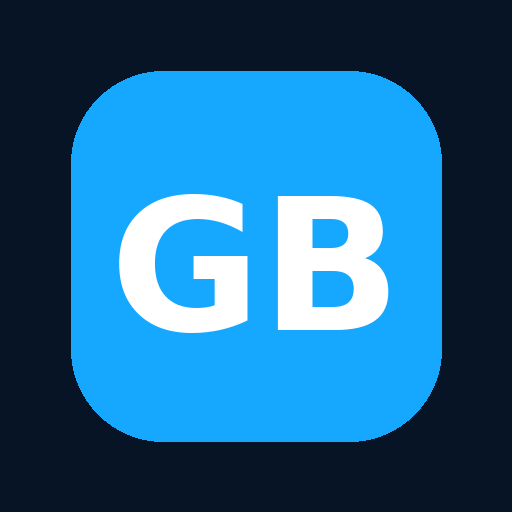
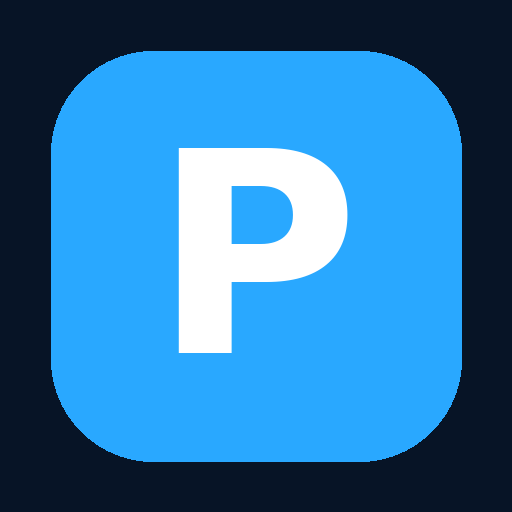
Add files via upload

Changed region(s): [[0.0938, 0.0938, 0.9062, 0.9062], [0.2188, 0.2812, 0.7812, 0.6875]]

diff --git a/script.js b/script.js
@@ -1,4 +1,4 @@
-// Gadget Bazar BD — customer site / Supabase
+// Paboo — customer site / Supabase
 const SUPABASE_URL="https://vwwysrdqexjtlmpmevub.supabase.co";
 const SUPABASE_KEY="sb_publishable_vYHW5zcCIPipjPS-tuxnRA_dS125qax";
 const sb=window.supabase.createClient(SUPABASE_URL,SUPABASE_KEY);
@@ -142,7 +142,7 @@ function renderDealProductCards(){
  const dealProducts=products.filter(p=>p.is_deal||Number(p.discount)>=70);
  return dealProducts.map(p=>{
   const id=jsArg(p.id),sold=Number(p.stock)<=0,disc=Number(p.discount)>0;
-  return `<article class="offer-card deal-product-card">${p.image?`<div class="offer-cover"><img src="${esc(p.image)}" alt="${esc(p.name)}" loading="lazy" onerror="this.style.display='none'"></div>`:''}<span class="offer-type">${disc?`${Math.round(Number(p.discount))}% OFF`:'Featured Deal'}</span><h3>${esc(p.name)}</h3><p>${esc(p.description||'Special gadget deal from Gadget Bazar BD.')}</p><strong class="offer-combo-price">${money(finalPrice(p))} ${disc?`<del style="font-size:12px;opacity:.7">${money(p.price)}</del>`:''}</strong><small>${sold?'Out of stock':`In stock: ${Math.max(0,Number(p.stock)||0)}`}</small><div class="offer-card-actions"><button type="button" class="view-btn" onclick="viewProductDetails(${id})">View Details</button><button type="button" class="add-btn" ${sold?'disabled':''} onclick="window.addToCart(${id})">${sold?'Out of Stock':'Add to Cart'}</button><button type="button" class="buy-btn" ${sold?'disabled':''} onclick="window.buyNow(${id})">${sold?'Out of Stock':'Buy Now'}</button><button type="button" class="view-btn" onclick="toggleWishlist(${id})">${wishlistIds.has(String(p.id))?'♥ Wishlist':'♡ Wishlist'}</button><button type="button" class="view-btn" onclick="toggleCompare(${id})">${compareIds.has(String(p.id))?'✓ Compare':'⇄ Compare'}</button></div></article>`;
+  return `<article class="offer-card deal-product-card">${p.image?`<div class="offer-cover"><img src="${esc(p.image)}" alt="${esc(p.name)}" loading="lazy" onerror="this.style.display='none'"></div>`:''}<span class="offer-type">${disc?`${Math.round(Number(p.discount))}% OFF`:'Featured Deal'}</span><h3>${esc(p.name)}</h3><p>${esc(p.description||'Special gadget deal from Paboo.')}</p><strong class="offer-combo-price">${money(finalPrice(p))} ${disc?`<del style="font-size:12px;opacity:.7">${money(p.price)}</del>`:''}</strong><small>${sold?'Out of stock':`In stock: ${Math.max(0,Number(p.stock)||0)}`}</small><div class="offer-card-actions"><button type="button" class="view-btn" onclick="viewProductDetails(${id})">View Details</button><button type="button" class="add-btn" ${sold?'disabled':''} onclick="window.addToCart(${id})">${sold?'Out of Stock':'Add to Cart'}</button><button type="button" class="buy-btn" ${sold?'disabled':''} onclick="window.buyNow(${id})">${sold?'Out of Stock':'Buy Now'}</button><button type="button" class="view-btn" onclick="toggleWishlist(${id})">${wishlistIds.has(String(p.id))?'♥ Wishlist':'♡ Wishlist'}</button><button type="button" class="view-btn" onclick="toggleCompare(${id})">${compareIds.has(String(p.id))?'✓ Compare':'⇄ Compare'}</button></div></article>`;
  }).join('');
 }
 function renderDealProducts(){
@@ -178,7 +178,7 @@ function renderOffers(){
   const unitPrice=offerUnitPrice(o);
   const offerId=esc(o.id);
   const priceLabel=Number(o.combo_price)>0?(isCombo?'Combo Deal':'Special Deal'):pct>0?`${pct}% OFF`:'Special Deal';
-  return `<article class="offer-card">${img?`<div class="offer-cover"><img src="${esc(img)}" alt="${esc(o.title||'Offer')}" loading="lazy"></div>`:''}<span class="offer-type">${type}</span><h3>${esc(o.title||'Special offer')}</h3><p>${esc(o.description||'Limited-time offer from Gadget Bazar BD.')}</p>${matched.length?`<div class="offer-products">${matched.map(p=>`<div class="offer-mini-product">${p.image?`<img src="${esc(p.image)}" alt="" loading="lazy">`:''}<span>${esc(p.name)}</span></div>`).join('')}</div>`:''}<div class="offer-value">${esc(priceLabel)}</div>${unitPrice>0?`<strong class="offer-combo-price">${money(unitPrice)}${isCombo?' per combo':' total'}</strong>`:''}${o.ends_at?`<small>Ends: ${new Date(o.ends_at).toLocaleString('en-BD',{dateStyle:'medium',timeStyle:'short'})}</small>`:''}${matched.length?`<div class="offer-card-actions"><button type="button" class="add-btn" ${sold?'disabled':''} onclick="addOfferToCart('${offerId}')">${sold?'Out of Stock':isCombo?'Add Combo to Cart':'Add to Cart'}</button><button type="button" class="buy-btn" ${sold?'disabled':''} onclick="buyOfferNow('${offerId}')">${sold?'Out of Stock':isCombo?'Buy Combo Now':'Buy Now'}</button></div>`:`<small>Products for this offer are not available right now.</small>`}</article>`;
+  return `<article class="offer-card">${img?`<div class="offer-cover"><img src="${esc(img)}" alt="${esc(o.title||'Offer')}" loading="lazy"></div>`:''}<span class="offer-type">${type}</span><h3>${esc(o.title||'Special offer')}</h3><p>${esc(o.description||'Limited-time offer from Paboo.')}</p>${matched.length?`<div class="offer-products">${matched.map(p=>`<div class="offer-mini-product">${p.image?`<img src="${esc(p.image)}" alt="" loading="lazy">`:''}<span>${esc(p.name)}</span></div>`).join('')}</div>`:''}<div class="offer-value">${esc(priceLabel)}</div>${unitPrice>0?`<strong class="offer-combo-price">${money(unitPrice)}${isCombo?' per combo':' total'}</strong>`:''}${o.ends_at?`<small>Ends: ${new Date(o.ends_at).toLocaleString('en-BD',{dateStyle:'medium',timeStyle:'short'})}</small>`:''}${matched.length?`<div class="offer-card-actions"><button type="button" class="add-btn" ${sold?'disabled':''} onclick="addOfferToCart('${offerId}')">${sold?'Out of Stock':isCombo?'Add Combo to Cart':'Add to Cart'}</button><button type="button" class="buy-btn" ${sold?'disabled':''} onclick="buyOfferNow('${offerId}')">${sold?'Out of Stock':isCombo?'Buy Combo Now':'Buy Now'}</button></div>`:`<small>Products for this offer are not available right now.</small>`}</article>`;
  }).join('');
  const placeholder=`<div class="offer-placeholder">${activeDealType?`No active ${esc(activeDealType)} right now.`:'No offers right now. Please check back soon.'}</div>`;
  if(offerGrid)offerGrid.innerHTML=offerCards;
@@ -383,7 +383,7 @@ function productImages(p){const arr=Array.isArray(p?.images)?p.images:[];return 
 function setProductGalleryImage(containerId,button,url){const box=$(containerId);if(!box)return;const img=box.querySelector('img');if(img)img.src=url;box.querySelectorAll('.product-gallery-thumb').forEach(b=>b.classList.remove('active'));button?.classList.add('active');}
 function openProductPage(id){const url=new URL(window.location.href);url.searchParams.set('product',String(id));url.hash='';window.location.href=url.toString();}
 function returnToShop(){const url=new URL(window.location.href);url.searchParams.delete('product');url.hash='products';window.location.href=url.toString();}
-function handleProductPageRoute(loadFailed=false){const id=new URLSearchParams(window.location.search).get('product');const page=$('fullProductPage');if(!page)return;if(!id){page.classList.add('hidden');document.body.classList.remove('full-product-page-open');return;}page.classList.remove('hidden');document.body.classList.add('full-product-page-open');if(loadFailed){page.innerHTML='<div class="full-product-message"><h2>Products could not be loaded</h2><p>Please check your connection and try again.</p><button class="view-btn" onclick="returnToShop()">Back to Shop</button></div>';return;}const p=getProduct(id);if(!p){page.innerHTML='<div class="full-product-message"><h2>Product not found</h2><p>This product may be unavailable or removed.</p><button class="view-btn" onclick="returnToShop()">Back to Shop</button></div>';return;}const specs=productSpecEntries(p),images=productImages(p),sold=Number(p.stock)<=0,discount=Number(p.discount)>0;const related=products.filter(x=>String(x.id)!==String(p.id)&&x.cat===p.cat).slice(0,4);page.innerHTML=`<div class="full-product-topbar"><button type="button" class="full-product-back" onclick="returnToShop()">← Back to Shop</button><span>GADGET BAZAR BD <b>• PRODUCT DETAILS</b></span><button type="button" class="full-product-cart" onclick="returnToShop();setTimeout(()=>document.getElementById('cartDrawer')?.classList.add('open'),350)">🛒 Cart</button></div><div class="full-product-container"><div class="full-product-hero"><div><div class="full-product-gallery"><div class="full-product-main-image" id="fullProductMainImage">${images.length?`<img src="${esc(images[0])}" alt="${esc(p.name)}" onerror="this.style.display='none'">`:`<span>${imgPlaceholder()}</span>`}</div>${images.length>1?`<div class="product-gallery-thumbs">${images.map((src,i)=>`<button type="button" class="product-gallery-thumb ${i===0?'active':''}" onclick="setProductGalleryImage('fullProductMainImage',this,this.dataset.src)" data-src="${esc(src)}" aria-label="View image ${i+1}"><img src="${esc(src)}" alt="" loading="lazy"></button>`).join('')}</div>`:''}</div></div><div class="full-product-info"><span class="product-details-kicker">${esc(p.cat||'Gadget')}</span><h1>${esc(p.name)}</h1><div class="product-details-price">${money(finalPrice(p,gbVar(p.id)))} ${discount?`<del>${money(p.price)}</del><span class="discount-badge">${Math.round(Number(p.discount))}% OFF</span>`:''}</div>${saleBox(p)}<p class="product-details-stock ${sold?'sold':''}">${sold?'Currently out of stock':`In stock: ${Math.max(0,Number(p.stock)||0)}`}</p>${p.description?`<p class="product-details-description">${esc(p.description)}</p>`:'<p class="product-details-description">Product description has not been added yet.</p>'}${variantChips(p)}<div class="full-product-actions"><button type="button" class="add-btn" ${sold?'disabled':''} onclick="window.addToCart(${jsArg(p.id)})">Add to Cart</button><button type="button" class="buy-btn" ${sold?'disabled':''} onclick="window.buyNow(${jsArg(p.id)})">Buy Now</button><button type="button" class="view-btn" onclick="window.viewProductDetails(${jsArg(p.id)})">Quick View Popup</button><button type="button" class="full-product-save" onclick="window.toggleWishlist(${jsArg(p.id)})">♡ Save to Wishlist</button></div><div class="full-product-highlights"><span>⚡ Secure checkout options</span><span>📦 Stock: ${Math.max(0,Number(p.stock)||0)}</span><span>↩ Return policy: see store policy</span></div></div></div>${specs.length?`<section class="full-product-spec-section"><h2>Specifications & Features</h2><dl>${specs.map(([k,v])=>`<div><dt>${esc(k)}</dt><dd>${esc(v)}</dd></div>`).join('')}</dl></section>`:`<section class="full-product-spec-section"><h2>Specifications & Features</h2><p>Specifications have not been provided for this product yet. Ask the store to confirm important details before ordering.</p></section>`}${related.length?`<section class="full-product-related"><h2>You may also like</h2><div class="full-product-related-grid">${related.map(x=>`<article class="full-related-card"><div class="full-related-image">${x.image?`<img src="${esc(x.image)}" alt="${esc(x.name)}" loading="lazy">`:esc(x.emoji||'📦')}</div><h3>${esc(x.name)}</h3><strong>${money(finalPrice(x))}</strong><button type="button" class="view-btn" onclick="window.openProductPage(${jsArg(x.id)})">View Details</button></article>`).join('')}</div></section>`:''}<div class="full-product-footer">Gadget Bazar BD · Prices and stock may change. Confirm product details before ordering.</div></div>`;}
+function handleProductPageRoute(loadFailed=false){const id=new URLSearchParams(window.location.search).get('product');const page=$('fullProductPage');if(!page)return;if(!id){page.classList.add('hidden');document.body.classList.remove('full-product-page-open');return;}page.classList.remove('hidden');document.body.classList.add('full-product-page-open');if(loadFailed){page.innerHTML='<div class="full-product-message"><h2>Products could not be loaded</h2><p>Please check your connection and try again.</p><button class="view-btn" onclick="returnToShop()">Back to Shop</button></div>';return;}const p=getProduct(id);if(!p){page.innerHTML='<div class="full-product-message"><h2>Product not found</h2><p>This product may be unavailable or removed.</p><button class="view-btn" onclick="returnToShop()">Back to Shop</button></div>';return;}const specs=productSpecEntries(p),images=productImages(p),sold=Number(p.stock)<=0,discount=Number(p.discount)>0;const related=products.filter(x=>String(x.id)!==String(p.id)&&x.cat===p.cat).slice(0,4);page.innerHTML=`<div class="full-product-topbar"><button type="button" class="full-product-back" onclick="returnToShop()">← Back to Shop</button><span>PABOO <b>• PRODUCT DETAILS</b></span><button type="button" class="full-product-cart" onclick="returnToShop();setTimeout(()=>document.getElementById('cartDrawer')?.classList.add('open'),350)">🛒 Cart</button></div><div class="full-product-container"><div class="full-product-hero"><div><div class="full-product-gallery"><div class="full-product-main-image" id="fullProductMainImage">${images.length?`<img src="${esc(images[0])}" alt="${esc(p.name)}" onerror="this.style.display='none'">`:`<span>${imgPlaceholder()}</span>`}</div>${images.length>1?`<div class="product-gallery-thumbs">${images.map((src,i)=>`<button type="button" class="product-gallery-thumb ${i===0?'active':''}" onclick="setProductGalleryImage('fullProductMainImage',this,this.dataset.src)" data-src="${esc(src)}" aria-label="View image ${i+1}"><img src="${esc(src)}" alt="" loading="lazy"></button>`).join('')}</div>`:''}</div></div><div class="full-product-info"><span class="product-details-kicker">${esc(p.cat||'Gadget')}</span><h1>${esc(p.name)}</h1><div class="product-details-price">${money(finalPrice(p,gbVar(p.id)))} ${discount?`<del>${money(p.price)}</del><span class="discount-badge">${Math.round(Number(p.discount))}% OFF</span>`:''}</div>${saleBox(p)}<p class="product-details-stock ${sold?'sold':''}">${sold?'Currently out of stock':`In stock: ${Math.max(0,Number(p.stock)||0)}`}</p>${p.description?`<p class="product-details-description">${esc(p.description)}</p>`:'<p class="product-details-description">Product description has not been added yet.</p>'}${variantChips(p)}<div class="full-product-actions"><button type="button" class="add-btn" ${sold?'disabled':''} onclick="window.addToCart(${jsArg(p.id)})">Add to Cart</button><button type="button" class="buy-btn" ${sold?'disabled':''} onclick="window.buyNow(${jsArg(p.id)})">Buy Now</button><button type="button" class="view-btn" onclick="window.viewProductDetails(${jsArg(p.id)})">Quick View Popup</button><button type="button" class="full-product-save" onclick="window.toggleWishlist(${jsArg(p.id)})">♡ Save to Wishlist</button></div><div class="full-product-highlights"><span>⚡ Secure checkout options</span><span>📦 Stock: ${Math.max(0,Number(p.stock)||0)}</span><span>↩ Return policy: see store policy</span></div></div></div>${specs.length?`<section class="full-product-spec-section"><h2>Specifications & Features</h2><dl>${specs.map(([k,v])=>`<div><dt>${esc(k)}</dt><dd>${esc(v)}</dd></div>`).join('')}</dl></section>`:`<section class="full-product-spec-section"><h2>Specifications & Features</h2><p>Specifications have not been provided for this product yet. Ask the store to confirm important details before ordering.</p></section>`}${related.length?`<section class="full-product-related"><h2>You may also like</h2><div class="full-product-related-grid">${related.map(x=>`<article class="full-related-card"><div class="full-related-image">${x.image?`<img src="${esc(x.image)}" alt="${esc(x.name)}" loading="lazy">`:esc(x.emoji||'📦')}</div><h3>${esc(x.name)}</h3><strong>${money(finalPrice(x))}</strong><button type="button" class="view-btn" onclick="window.openProductPage(${jsArg(x.id)})">View Details</button></article>`).join('')}</div></section>`:''}<div class="full-product-footer">Paboo · Prices and stock may change. Confirm product details before ordering.</div></div>`;}
 window.openProductPage=openProductPage;window.returnToShop=returnToShop;window.setProductGalleryImage=setProductGalleryImage;
 
 function showSavedProducts(kind){
@@ -731,7 +731,7 @@ function renderStoreInfo(){
  sec?.classList.toggle("hidden",!cards.length);
  $("footContactLink")?.classList.toggle("hidden",!cards.length);
  const wa=$("waFloat");
- if(wa){if(digits(i.whatsapp)){wa.href=`https://wa.me/${digits(i.whatsapp)}?text=${encodeURIComponent("Hello Gadget Bazar BD, I need help with an order.")}`;wa.classList.remove("hidden");}else wa.classList.add("hidden");}
+ if(wa){if(digits(i.whatsapp)){wa.href=`https://wa.me/${digits(i.whatsapp)}?text=${encodeURIComponent("Hello Paboo, I need help with an order.")}`;wa.classList.remove("hidden");}else wa.classList.add("hidden");}
 }
 async function startCustomerSite(){initCustomerUI();updateSavedCounters();renderPolicyInfo();renderStoreInfo();renderProducts();updateCart();await refreshStore();setupLocationPickers();renderSmartRecommendations();}
 window.addToCart=addToCart;window.buyNow=buyNow;window.toggleWishlist=toggleWishlist;window.toggleCompare=toggleCompare;window.showSavedProducts=showSavedProducts;window.closeSavedProducts=closeSavedProducts;window.renderSavedPanel=renderSavedPanel;window.removeSavedProduct=removeSavedProduct;window.applyCoupon=applyCoupon;
@@ -783,7 +783,7 @@ function setupSuccessWhatsApp(o){
  const num=String((typeof STORE_INFO!=="undefined"&&STORE_INFO.whatsapp)||"").replace(/\D/g,"");
  if(!num){btn.classList.add("hidden");note?.classList.add("hidden");return;}
  const lines=(o.items||[]).map(i=>`• ${i.name} x${i.qty}`).join("\n");
- const msg=`আসসালামু আলাইকুম, আমি Gadget Bazar BD-তে অর্ডার করেছি।\nOrder ID: ${o.orderId}\nনাম: ${o.customer?.name||""}\nফোন: ${o.customer?.phone||""}\n${lines}\nমোট: ৳${Number(o.total||0).toLocaleString("en-BD")}\nদয়া করে কনফার্ম করুন।`;
+ const msg=`আসসালামু আলাইকুম, আমি Paboo-তে অর্ডার করেছি।\nOrder ID: ${o.orderId}\nনাম: ${o.customer?.name||""}\nফোন: ${o.customer?.phone||""}\n${lines}\nমোট: ৳${Number(o.total||0).toLocaleString("en-BD")}\nদয়া করে কনফার্ম করুন।`;
  btn.href=`https://wa.me/${num}?text=${encodeURIComponent(msg)}`;
  btn.classList.remove("hidden");note?.classList.remove("hidden");
 }
@@ -1006,8 +1006,8 @@ async function gbInstall(){
  if(gbIsStandalone()){toast("Already installed");return;}
  if(_gbInstallEvt){const ev=_gbInstallEvt;_gbInstallEvt=null;ev.prompt();try{await ev.userChoice}catch(_){}return;}
  const ios=/iphone|ipad|ipod/i.test(navigator.userAgent);
- const steps=ios?["Tap the Share button at the bottom of Safari.","Scroll down and tap “Add to Home Screen”.","Tap “Add”. The Gadget Bazar BD icon will appear on your phone."]
-  :["Tap the ⋮ menu at the top-right of Chrome.","Tap “Add to Home screen” (or “Install app”).","Tap “Add”. The Gadget Bazar BD icon will appear on your phone."];
+ const steps=ios?["Tap the Share button at the bottom of Safari.","Scroll down and tap “Add to Home Screen”.","Tap “Add”. The Paboo icon will appear on your phone."]
+  :["Tap the ⋮ menu at the top-right of Chrome.","Tap “Add to Home screen” (or “Install app”).","Tap “Add”. The Paboo icon will appear on your phone."];
  $("installSteps").innerHTML="<ol>"+steps.map(s=>"<li>"+esc(s)+"</li>").join("")+"</ol>";
  $("installSheet")?.classList.remove("hidden");
 }

diff --git a/i18n.js b/i18n.js
@@ -1,4 +1,4 @@
-/* Gadget Bazar BD - Bangla / English switch.
+/* Paboo - Bangla / English switch.
    Default = Bangla. The English text stays in the page source; this file swaps it at display time
    (and swaps back when the customer picks English). Product / category names are never touched. */
 (function(){
@@ -26,7 +26,7 @@ var D={
 "Easy Checkout":"সহজ চেকআউট","Simple and secure order flow":"সহজ ও নিরাপদ অর্ডার প্রক্রিয়া","Order Tracking":"অর্ডার ট্র্যাকিং","Check updates with your phone":"ফোন নম্বর দিয়ে আপডেট দেখুন",
 "Warranty & Returns":"ওয়ারেন্টি ও রিটার্ন","Read our policies":"আমাদের নীতিমালা পড়ুন","Track Your Orders":"আপনার অর্ডার ট্র্যাক করুন","Track Your Order":"আপনার অর্ডার ট্র্যাক করুন",
 "Enter your phone number to see all your orders.":"আপনার সব অর্ডার দেখতে ফোন নম্বর দিন।","Track Orders":"অর্ডার ট্র্যাক করুন","ABOUT US":"আমাদের সম্পর্কে","About Us":"আমাদের সম্পর্কে",
-"Gadget Bazar BD is an online gadget store for Bangladesh. We sell audio products, wearables, power and charging accessories, mobile accessories, RGB lighting, home gadgets and gaming gear, and deliver across the country.":"গ্যাজেট বাজার বিডি বাংলাদেশের একটি অনলাইন গ্যাজেট স্টোর। আমরা অডিও পণ্য, ওয়্যারেবল, পাওয়ার ও চার্জিং এক্সেসরিজ, মোবাইল এক্সেসরিজ, RGB লাইটিং, হোম গ্যাজেট ও গেমিং গিয়ার বিক্রি করি এবং সারাদেশে ডেলিভারি দিই।",
+"Paboo is an online gadget store for Bangladesh. We sell audio products, wearables, power and charging accessories, mobile accessories, RGB lighting, home gadgets and gaming gear, and deliver across the country.":"পাবু বাংলাদেশের একটি অনলাইন গ্যাজেট স্টোর। আমরা অডিও পণ্য, ওয়্যারেবল, পাওয়ার ও চার্জিং এক্সেসরিজ, মোবাইল এক্সেসরিজ, RGB লাইটিং, হোম গ্যাজেট ও গেমিং গিয়ার বিক্রি করি এবং সারাদেশে ডেলিভারি দিই।",
 "SHOP WITH CONFIDENCE":"নিশ্চিন্তে কিনুন","Our Policies":"আমাদের নীতিমালা","GET IN TOUCH":"যোগাযোগ করুন","Contact Us":"যোগাযোগ","WhatsApp":"হোয়াটসঅ্যাপ",
 "Your Cart":"আপনার কার্ট","Your cart is empty.":"আপনার কার্ট খালি।","Subtotal":"সাবটোটাল","Delivery":"ডেলিভারি","Total":"মোট",
 "Customer & payment information":"গ্রাহকের তথ্য ও পেমেন্ট","Customer Information":"গ্রাহকের তথ্য","Full Name *":"পূর্ণ নাম *","Phone Number *":"ফোন নম্বর *",
@@ -42,13 +42,13 @@ var D={
 "Smart gadgets for everyday life. Browse the collection and choose the products that work for you.":"প্রতিদিনের জীবনের জন্য স্মার্ট গ্যাজেট। কালেকশন ঘুরে দেখুন এবং পছন্দের পণ্য বেছে নিন।",
 "Made for gadget lovers in Bangladesh":"বাংলাদেশের গ্যাজেটপ্রেমীদের জন্য","Quick Links":"দ্রুত লিংক","Customer Service":"কাস্টমার সার্ভিস",
 "Nationwide delivery":"সারাদেশে ডেলিভারি","Secure order form":"নিরাপদ অর্ডার ফর্ম","Order tracking":"অর্ডার ট্র্যাকিং","COD & mobile payment":"ক্যাশ অন ডেলিভারি ও মোবাইল পেমেন্ট",
-"© 2026 Gadget Bazar BD. Prices and availability may change.":"© ২০২৬ গ্যাজেট বাজার বিডি। দাম ও স্টক পরিবর্তন হতে পারে।",
+"© 2026 Paboo. Prices and availability may change.":"© ২০২৬ পাবু। দাম ও স্টক পরিবর্তন হতে পারে।",
 "Remove":"সরান","Added to cart":"কার্টে যোগ হয়েছে","Product details":"পণ্যের বিবরণ","Warranty":"ওয়ারেন্টি","Description":"বিবরণ","Full Product Page ↗":"পূর্ণ পণ্য পেজ ↗",
 "Saved gadgets, ready when you are.":"সংরক্ষিত গ্যাজেট, যখন খুশি দেখুন।","Your Wishlist is empty":"আপনার উইশলিস্ট খালি","Tap the heart/Wishlist button on any gadget to save it here.":"যেকোনো পণ্যে হার্ট/উইশলিস্ট বাটন চাপলে এখানে জমা হবে।",
 "Explore Products":"পণ্য দেখুন","MAKE THE RIGHT CHOICE":"সঠিক সিদ্ধান্ত নিন","Compare price, availability and the product details we have.":"দাম, স্টক ও পণ্যের তথ্য তুলনা করুন।",
 "No products to compare yet":"তুলনার জন্য এখনো কোনো পণ্য নেই","Choose up to 3 products from the catalogue and tap Compare.":"ক্যাটালগ থেকে সর্বোচ্চ ৩টি পণ্য বেছে “তুলনা” চাপুন।",
 "Tap the ⋮ menu at the top-right of Chrome.":"Chrome-এর উপরে ডানদিকের ⋮ মেনুতে চাপ দিন।","Tap “Add to Home screen” (or “Install app”).":"“Add to Home screen” (বা “Install app”) চাপ দিন।",
-"Tap “Add”. The Gadget Bazar BD icon will appear on your phone.":"“Add” চাপ দিন। আপনার ফোনে গ্যাজেট বাজার বিডি-র আইকন চলে আসবে।",
+"Tap “Add”. The Paboo icon will appear on your phone.":"“Add” চাপ দিন। আপনার ফোনে পাবু-র আইকন চলে আসবে।",
 "Tap the Share button at the bottom of Safari.":"Safari-র নিচের Share বাটনে চাপ দিন।","Scroll down and tap “Add to Home Screen”.":"নিচে স্ক্রল করে “Add to Home Screen” চাপ দিন।",
 "Already installed":"আগেই ইনস্টল করা আছে","Installed!":"ইনস্টল হয়েছে!",
 /* attributes */
@@ -75,7 +75,7 @@ var D={
 "Product description has not been added yet.":"পণ্যের বিবরণ এখনো যোগ করা হয়নি।","Product details are not available":"পণ্যের তথ্য পাওয়া যাচ্ছে না","Offer products are unavailable":"অফারের পণ্য পাওয়া যাচ্ছে না",
 "Product specifications are shown only when provided by the store. Please confirm important details before ordering.":"স্পেসিফিকেশন শুধু স্টোর দিলে দেখানো হয়। অর্ডারের আগে গুরুত্বপূর্ণ তথ্য নিশ্চিত করে নিন।",
 "← Back to Shop":"← শপে ফিরুন","↩ Return policy: see store policy":"↩ রিটার্ন নীতি: নীতিমালা দেখুন","PRODUCT DETAILS":"পণ্যের বিবরণ","Quick View Popup":"দ্রুত দেখুন",
-"Limited-time offer from Gadget Bazar BD.":"গ্যাজেট বাজার বিডি-র সীমিত সময়ের অফার।","Special gadget deal from Gadget Bazar BD.":"গ্যাজেট বাজার বিডি-র বিশেষ গ্যাজেট ডিল।",
+"Limited-time offer from Paboo.":"পাবু-র সীমিত সময়ের অফার।","Special gadget deal from Paboo.":"পাবু-র বিশেষ গ্যাজেট ডিল।",
 "Saved":"সংরক্ষিত","Comparing":"তুলনায় আছে","Save to Wishlist":"উইশলিস্টে রাখুন","Secure checkout options":"নিরাপদ চেকআউট অপশন","Open hours":"খোলা থাকার সময়",
 "Site colours":"সাইটের রঙ","Courier":"কুরিয়ার","Tracking no.":"ট্র্যাকিং নম্বর","Copy":"কপি","Copied":"কপি হয়েছে","If you do not finish the order, we may contact you on this number to help.":"অর্ডার শেষ না করলে সহায়তার জন্য আমরা এই নম্বরে যোগাযোগ করতে পারি।","Sorry, we cannot take an order from this number right now. Please contact us on WhatsApp.":"দুঃখিত, এই নম্বর থেকে এখন অর্ডার নেওয়া যাচ্ছে না। অনুগ্রহ করে হোয়াটসঅ্যাপে যোগাযোগ করুন।","Please enter a valid phone number.":"সঠিক ফোন নম্বর দিন।","Your cart is empty.":"আপনার কার্ট খালি।","Shop with Confidence":"নিশ্চিন্তে কিনুন","Quick saved shopping tools":"দ্রুত সংরক্ষিত টুলস","Saved shopping tools":"সংরক্ষিত টুলস","Deals and offers":"ডিল ও অফার","Shopping benefits":"কেনাকাটার সুবিধা"
 ,"Choose an option first":"আগে একটি অপশন বেছে নিন","Option":"অপশন","Sold out":"স্টক শেষ"

diff --git a/admin.js b/admin.js
@@ -1,5 +1,5 @@
 /* =========================================================
-   GADGET BAZAR BD — FINAL ADMIN PANEL
+   PABOO — FINAL ADMIN PANEL
    Supabase + mobile responsive + Catalog UI
    Delivery Settings management added
 ========================================================= */
@@ -16,7 +16,7 @@ let categoriesCache=[];
 let offersCache=[];
 let editingOfferId=null;
 let deliverySettingsCache=null;
-let storeSettingsCache={store_name:'Gadget Bazar BD',phone:'',email:'',address:'',support_hours:''};
+let storeSettingsCache={store_name:'Paboo',phone:'',email:'',address:'',support_hours:''};
 let currentSection='dashboard';
 let editingProductId=null;
 let catalogOpen=true;
@@ -160,7 +160,7 @@ function dashboard(){
     .reduce((s,o)=>s+Number(o.total??(Number(o.subtotal||0)+Number(o.delivery_charge||0))),0);
   const recent=ordersCache.slice(0,6);
 
-  return `<div class="section-head"><div><h3>Dashboard</h3><p>Gadget Bazar BD overview</p></div><button class="btn muted" onclick="refreshDashboard()">↻ Refresh</button></div>
+  return `<div class="section-head"><div><h3>Dashboard</h3><p>Paboo overview</p></div><button class="btn muted" onclick="refreshDashboard()">↻ Refresh</button></div>
   <div class="stats-grid">
     ${stat('▣','Total Products',total)}${stat('✓','Active Products',active)}${stat('▤','Total Orders',totalOrders)}${stat('!','Pending Orders',pending)}
     ${stat('✓','Delivered',delivered)}${stat('৳','Revenue',money(revenue))}${stat('◉','Total Stock',stock)}${stat('⌁','Categories',categoriesCache.length)}
@@ -510,7 +510,7 @@ function waMessage(o){
   const id=o.order_number||o.order_id||o.id||'';
   const name=o.customer_name||o.name||'';
   const total=o.total??(Number(o.subtotal||0)+Number(o.delivery_charge??o.delivery_fee??0));
-  const head=`আসসালামু আলাইকুম${name?' '+name:''}, Gadget Bazar BD থেকে বলছি।\nঅর্ডার নং: ${id}\nমোট: ${money(total)}\n`;
+  const head=`আসসালামু আলাইকুম${name?' '+name:''}, Paboo থেকে বলছি।\nঅর্ডার নং: ${id}\nমোট: ${money(total)}\n`;
   const tail={
     Pending:'আপনার অর্ডারটি আমরা পেয়েছি। কনফার্ম করার জন্য যোগাযোগ করছি, দয়া করে ঠিকানা ও নম্বর ঠিক আছে কিনা জানাবেন।',
     Confirmed:'আপনার অর্ডারটি কনফার্ম করা হয়েছে। শীঘ্রই প্রস্তুত করে পাঠানো হবে। ধন্যবাদ!',
@@ -823,7 +823,7 @@ async function loadStoreSettings(){
   const {data,error}=await sb.from('store_settings').select('*').eq('id',1).maybeSingle();
   if(error)throw error;
   storeSettingsCache={
-    store_name:data?.store_name||'Gadget Bazar BD',
+    store_name:data?.store_name||'Paboo',
     phone:data?.phone||'',
     email:data?.email||'',
     address:data?.address||'',
@@ -845,7 +845,7 @@ function settings(){
   const s=storeSettingsCache||{};
   return `<div class="section-head"><div><h3>Store Settings</h3><p>Manage your store contact information</p></div><button class="btn muted" onclick="loadStoreSettings().then(render).catch(showError)">↻ Refresh</button></div>
   <div class="card"><div class="form-grid">
-    <label class="full">Store Name<input id="storeName" maxlength="120" value="${esc(s.store_name||'Gadget Bazar BD')}" placeholder="Gadget Bazar BD"></label>
+    <label class="full">Store Name<input id="storeName" maxlength="120" value="${esc(s.store_name||'Paboo')}" placeholder="Paboo"></label>
     <label>Contact Phone<input id="storePhone" type="tel" maxlength="30" value="${esc(s.phone||'')}" placeholder="01XXXXXXXXX"></label>
     <label>Contact Email<input id="storeEmail" type="email" maxlength="160" value="${esc(s.email||'')}" placeholder="support@example.com"></label>
     <label class="full">Store Address<textarea id="storeAddress" rows="3" maxlength="500" placeholder="Store address">${esc(s.address||'')}</textarea></label>
@@ -1314,7 +1314,7 @@ async function downloadPostImage(kind){
   const box=kind==='story'?820:560,bx=(W-box)/2,by=kind==='story'?250:70;
   x.fillStyle='#fff';x.beginPath();x.roundRect(bx,by,box,box,36);x.fill();
   if(img){const r=Math.min((box-40)/img.width,(box-40)/img.height),w=img.width*r,h=img.height*r;x.drawImage(img,bx+(box-w)/2,by+(box-h)/2,w,h)}
-  x.textAlign='center';x.fillStyle='#fbbf24';x.font='bold 40px sans-serif';x.fillText('GADGET BAZAR BD',W/2,kind==='story'?150:56);
+  x.textAlign='center';x.fillStyle='#fbbf24';x.font='bold 40px sans-serif';x.fillText('PABOO',W/2,kind==='story'?150:56);
   let y=by+box+(kind==='story'?90:60);
   x.fillStyle='#fff';x.font='bold 52px sans-serif';y=wrapCanvasText(x,p.name,W/2,y,W-140,62,2);
   const fin=postFinal(p),d=Number(p.discount||0);
@@ -1430,7 +1430,7 @@ async function saveSiteTheme(){
   const btn=$('saveThemeBtn');
   try{
     if(btn){btn.disabled=true;btn.textContent='Saving...'}
-    const payload={id:1,store_name:s.store_name||'Gadget Bazar BD',phone:s.phone||'',email:s.email||'',address:s.address||'',support_hours:s.support_hours||'',theme,updated_at:new Date().toISOString()};
+    const payload={id:1,store_name:s.store_name||'Paboo',phone:s.phone||'',email:s.email||'',address:s.address||'',support_hours:s.support_hours||'',theme,updated_at:new Date().toISOString()};
     const {error}=await sb.from('store_settings').upsert(payload,{onConflict:'id'});
     if(error)throw error;
     storeSettingsCache={...s,theme,updated_at:payload.updated_at};pendingTheme=null;
@@ -1551,7 +1551,7 @@ async function saveVariantsSetting(){
   const s=storeSettingsCache||{};const on=!!$('variantsToggle')?.checked;const btn=$('saveVariantsBtn');
   try{
     if(btn){btn.disabled=true;btn.textContent='Saving...'}
-    const {error}=await sb.from('store_settings').upsert({id:1,store_name:s.store_name||'Gadget Bazar BD',variants_on:on,updated_at:new Date().toISOString()},{onConflict:'id'});
+    const {error}=await sb.from('store_settings').upsert({id:1,store_name:s.store_name||'Paboo',variants_on:on,updated_at:new Date().toISOString()},{onConflict:'id'});
     if(error)throw error;
     storeSettingsCache={...s,variants_on:on};
     alert(on?'Product variants are now ON for customers.':'Product variants are OFF. The website works as before.');
@@ -1563,7 +1563,7 @@ async function saveColsSetting(){
   const s=storeSettingsCache||{};const on=!!$('colsToggle')?.checked;const btn=$('saveColsBtn');
   try{
     if(btn){btn.disabled=true;btn.textContent='Saving...'}
-    const {error}=await sb.from('store_settings').upsert({id:1,store_name:s.store_name||'Gadget Bazar BD',col_picker:on,updated_at:new Date().toISOString()},{onConflict:'id'});
+    const {error}=await sb.from('store_settings').upsert({id:1,store_name:s.store_name||'Paboo',col_picker:on,updated_at:new Date().toISOString()},{onConflict:'id'});
     if(error)throw error;
     storeSettingsCache={...s,col_picker:on};
     alert(on?'Columns picker is now ON for customers.':'Columns picker is OFF. The website looks as before.');
@@ -1626,7 +1626,7 @@ function blockedPage(){
 /* incomplete orders */
 function leadMsg(l){
   const items=(Array.isArray(l.items)?l.items:[]).map(i=>`${i.name||'পণ্য'} x${i.qty||1}`).join(', ');
-  return `আসসালামু আলাইকুম ${l.name||''}, Gadget Bazar BD থেকে বলছি। আপনি ${items||'কিছু পণ্য'} অর্ডার করতে চেয়েছিলেন। কোনো সাহায্য লাগলে বলুন, আমরা এখনই অর্ডারটা কনফার্ম করে দিই। 😊`;
+  return `আসসালামু আলাইকুম ${l.name||''}, Paboo থেকে বলছি। আপনি ${items||'কিছু পণ্য'} অর্ডার করতে চেয়েছিলেন। কোনো সাহায্য লাগলে বলুন, আমরা এখনই অর্ডারটা কনফার্ম করে দিই। 😊`;
 }
 function leadsPage(){
   const rows=leadsCache.map((l,i)=>{
@@ -1698,7 +1698,7 @@ async function saveTrackingSetting(){
   const s=storeSettingsCache||{};const on=!!$('trackToggle')?.checked;const btn=$('saveTrackBtn');
   try{
     if(btn){btn.disabled=true;btn.textContent='Saving...'}
-    const {error}=await sb.from('store_settings').upsert({id:1,store_name:s.store_name||'Gadget Bazar BD',show_tracking:on,updated_at:new Date().toISOString()},{onConflict:'id'});
+    const {error}=await sb.from('store_settings').upsert({id:1,store_name:s.store_name||'Paboo',show_tracking:on,updated_at:new Date().toISOString()},{onConflict:'id'});
     if(error)throw error;
     storeSettingsCache={...s,show_tracking:on};
     alert(on?'Customers can now see courier & tracking number.':'Tracking info is now hidden from customers.');

diff --git a/index.html b/index.html
@@ -9,12 +9,12 @@
   <link rel="icon" type="image/png" href="icon-192.png">
   <meta name="mobile-web-app-capable" content="yes">
   <meta name="apple-mobile-web-app-capable" content="yes">
-  <meta name="apple-mobile-web-app-title" content="Gadget Bazar">
-  <meta name="description" content="Shop smart gadgets, mobile accessories, audio, wearables, RGB lighting and home electronics at Gadget Bazar BD.">
+  <meta name="apple-mobile-web-app-title" content="Paboo">
+  <meta name="description" content="Shop smart gadgets, mobile accessories, audio, wearables, RGB lighting and home electronics at Paboo.">
 
   <meta property="og:type" content="website">
-  <meta property="og:site_name" content="Gadget Bazar BD">
-  <meta property="og:title" content="Gadget Bazar BD | Smart Gadgets &amp; Accessories">
+  <meta property="og:site_name" content="Paboo">
+  <meta property="og:title" content="Paboo | Ja Chao, Tai Pao — যা চাও, তাই পাও">
   <meta property="og:description" content="Smart gadgets, audio, wearables and accessories with Cash on Delivery across Bangladesh.">
   <meta property="og:url" content="https://gadgetbazarbd.github.io/">
   <meta property="og:image" content="https://gadgetbazarbd.github.io/og-image.png">
@@ -23,7 +23,7 @@
   <meta name="twitter:card" content="summary_large_image">
 
   <script>try{var _u=localStorage.getItem("gbbd_theme"),_s=localStorage.getItem("gbbd_store_theme");document.documentElement.setAttribute("data-theme",(_u&&_u!=="default")?_u:(_s||"ocean"))}catch(e){document.documentElement.setAttribute("data-theme","ocean")}</script>
-  <title>Gadget Bazar BD | Smart Gadgets & Accessories</title>
+  <title>Paboo | Ja Chao, Tai Pao — যা চাও, তাই পাও</title>
 
   <link rel="preconnect" href="https://fonts.googleapis.com">
   <link rel="preconnect" href="https://fonts.gstatic.com" crossorigin>
@@ -33,7 +33,7 @@
     rel="stylesheet"
   >
 
-  <link rel="stylesheet" href="style.css?v=gbbd-fixes-20261025b">
+  <link rel="stylesheet" href="style.css?v=gbbd-fixes-20261026a">
 
   <script src="https://cdn.jsdelivr.net/npm/@supabase/supabase-js@2"></script>
 
@@ -108,7 +108,7 @@
 
   <a class="brand" href="#" onclick="showAllProducts();return false;">
     <span class="logo"><svg class="ic ic-logo" aria-hidden="true"><use href="#i-cart"/></svg></span>
-    <span>Gadget <b>Bazar</b> BD</span>
+    <span>Pa<b>boo</b></span>
   </a>
 
   <nav class="desktop-nav" aria-label="Main navigation">
@@ -395,8 +395,8 @@
   <section class="info-section" data-v="about" id="about" aria-labelledby="aboutTitle">
     <div class="info-inner">
       <p class="eyebrow">ABOUT US</p>
-      <h2 id="aboutTitle">Gadget Bazar BD</h2>
-      <p class="info-lead">Gadget Bazar BD is an online gadget store for Bangladesh. We sell audio products, wearables, power and charging accessories, mobile accessories, RGB lighting, home gadgets and gaming gear, and deliver across the country.</p>
+      <h2 id="aboutTitle">Paboo</h2>
+      <p class="info-lead">Paboo is an online gadget store for Bangladesh. We sell audio products, wearables, power and charging accessories, mobile accessories, RGB lighting, home gadgets and gaming gear, and deliver across the country.</p>
     </div>
   </section>
 
@@ -668,7 +668,8 @@
 <footer class="site-footer">
   <div class="footer-inner">
     <div class="footer-brand-block">
-      <a class="footer-brand" href="#" onclick="showAllProducts();return false;"><svg class="ic" aria-hidden="true"><use href="#i-cart"/></svg> Gadget <b>Bazar</b> BD</a>
+      <a class="footer-brand" href="#" onclick="showAllProducts();return false;"><svg class="ic" aria-hidden="true"><use href="#i-cart"/></svg> Pa<b>boo</b></a>
+      <p class="footer-slogan" data-no-i18n>Ja Chao, Tai Pao — যা চাও, তাই পাও</p>
       <p>Smart gadgets for everyday life. Browse the collection and choose the products that work for you.</p>
       <span class="footer-bangladesh">Made for gadget lovers in Bangladesh</span>
     </div>
@@ -695,12 +696,12 @@
       <span><svg class="ic" aria-hidden="true"><use href="#i-cash"/></svg> COD &amp; mobile payment</span>
     </div>
   </div>
-  <div class="footer-bottom">© 2026 Gadget Bazar BD. Prices and availability may change.</div>
+  <div class="footer-bottom">© 2026 Paboo. Prices and availability may change.</div>
 </footer>
 
 
-<script src="script.js?v=gbbd-fixes-20261025b"></script>
-<script src="i18n.js?v=gbbd-fixes-20261025b"></script>
+<script src="script.js?v=gbbd-fixes-20261026a"></script>
+<script src="i18n.js?v=gbbd-fixes-20261026a"></script>
 
 </body>
 </html>

diff --git a/style.css b/style.css
@@ -79,7 +79,7 @@ footer{text-align:center;color:#70879d;padding:25px;border-top:1px solid var(--l
 
 
 /* =========================================================
-   Gadget Bazar BD — polished responsive storefront refresh
+   Paboo — polished responsive storefront refresh
    Kept as an additive layer so existing checkout/drawer logic
    and responsive selectors remain compatible.
 ========================================================= */
@@ -203,7 +203,7 @@ button:focus-visible,a:focus-visible,input:focus-visible,select:focus-visible,te
 @media(prefers-reduced-motion:reduce){*,*::before,*::after{scroll-behavior:auto!important;transition:none!important;animation:none!important}}
 
 
-/* Gadget Bazar BD — Deal Zone update */
+/* Paboo — Deal Zone update */
 .hero-actions{display:flex;gap:12px;flex-wrap:wrap;align-items:center;margin-top:22px}.hero-actions .primary{margin:0}.discount-cta{border:1px solid rgba(255,190,72,.65);background:linear-gradient(135deg,#ffbf4a,#ff7c39);color:#201307;font-weight:800;border-radius:12px;padding:14px 20px;cursor:pointer;box-shadow:0 8px 26px #ff9b3028}.discount-cta:hover{filter:brightness(1.05);transform:translateY(-1px)}
 .deal-zone{padding:36px clamp(16px,4vw,56px);margin:10px auto 20px;max-width:1400px}.deal-zone-head{display:flex;align-items:center;justify-content:space-between;gap:18px;margin-bottom:18px}.deal-zone-head .eyebrow{margin:0 0 6px;color:#ffbf4a;font-size:11px;font-weight:800;letter-spacing:.16em}.deal-zone-head h2{margin:0;font-size:clamp(26px,4vw,36px)}.deal-zone-head p:not(.eyebrow){margin:6px 0 0;color:var(--muted);font-size:13px}.deal-zone-tag{background:rgba(255,139,50,.13);color:#ffbd65;border:1px solid #ff9e4a55;border-radius:999px;padding:8px 12px;font-size:10px;font-weight:900;letter-spacing:.1em;white-space:nowrap}.deal-categories{display:grid;grid-template-columns:repeat(4,minmax(0,1fr));gap:10px;margin-bottom:16px}.deal-categories button{padding:14px 10px;border:1px solid var(--line);border-radius:14px;color:var(--text);background:linear-gradient(135deg,rgba(22,58,87,.75),rgba(9,26,44,.95));font-weight:750;cursor:pointer}.deal-categories button:hover{border-color:#3ca9ed}.offers-grid{display:grid;grid-template-columns:repeat(auto-fit,minmax(220px,1fr));gap:12px}.offer-card{border:1px solid rgba(83,169,222,.22);border-radius:16px;padding:16px;background:linear-gradient(145deg,rgba(16,46,70,.92),rgba(7,21,36,.96));min-width:0}.offer-card .offer-type{font-size:10px;font-weight:850;letter-spacing:.1em;color:#ffbd65;text-transform:uppercase}.offer-card h3{margin:8px 0 6px;font-size:17px}.offer-card p{margin:0 0 12px;color:var(--muted);font-size:12px;line-height:1.6}.offer-card .offer-value{font-size:22px;font-weight:900;color:#78d5ff}.offer-card small{display:block;color:var(--muted);margin-top:7px}.offer-placeholder{grid-column:1/-1;padding:18px;border:1px dashed var(--line);border-radius:14px;color:var(--muted);font-size:13px}@media(max-width:650px){.deal-zone{padding:25px 14px}.deal-categories{grid-template-columns:repeat(2,minmax(0,1fr))}.deal-categories button{font-size:12px;padding:12px 7px}.deal-zone-head h2{font-size:27px}.deal-zone-tag{font-size:9px;padding:7px 9px}.hero-actions{gap:8px}.hero-actions button{padding:12px 15px}}
 
@@ -1002,3 +1002,5 @@ html[data-theme="light"] .install-card,html[data-theme="rose"] .install-card,htm
 .variant-chip .vc-sub{font-size:10px;font-weight:500;opacity:.75;text-decoration:none}
 .variant-note{display:block;margin-top:6px;color:#64748b;font-size:12px}
 .cart-variant{font-weight:600;color:#38bdf8}
+
+.footer-slogan{font-weight:800;color:#fbbf24;margin:6px 0 4px}

diff --git a/admin.html b/admin.html
@@ -4,7 +4,7 @@
   <meta charset="utf-8">
   <meta name="viewport" content="width=device-width,initial-scale=1">
   <meta name="theme-color" content="#071426">
-  <title>Gadget Bazar BD — Admin Panel</title>
+  <title>Paboo — Admin Panel</title>
   <link rel="preconnect" href="https://fonts.googleapis.com">
   <link href="https://fonts.googleapis.com/css2?family=Inter:wght@400;500;600;700;800&display=swap" rel="stylesheet">
   <link rel="stylesheet" href="admin.css?v=gbbd-product-details-deals-v2-20261016">
@@ -17,7 +17,7 @@
 <div id="login" class="login">
   <div class="login-card">
     <div class="logo">GB</div>
-    <h1>Gadget Bazar BD</h1>
+    <h1>Paboo</h1>
     <p>Admin Control Center</p>
     <input id="loginEmail" type="email" placeholder="Admin email" autocomplete="username">
     <input id="loginPassword" type="password" placeholder="Password" autocomplete="current-password">
@@ -32,7 +32,7 @@
   <aside class="sidebar">
     <div class="brand">
       <span class="brand-icon">GB</span>
-      <div><b>Gadget Bazar</b><small>ADMIN PANEL</small></div>
+      <div><b>Paboo</b><small>ADMIN PANEL</small></div>
     </div>
 
     <nav class="side-nav">
